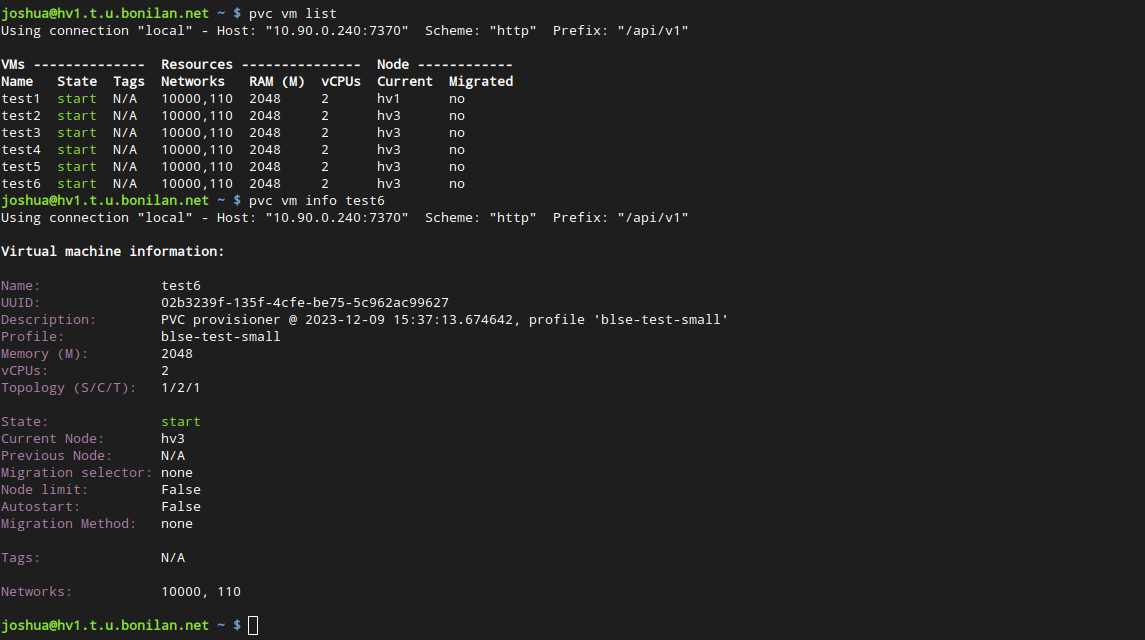
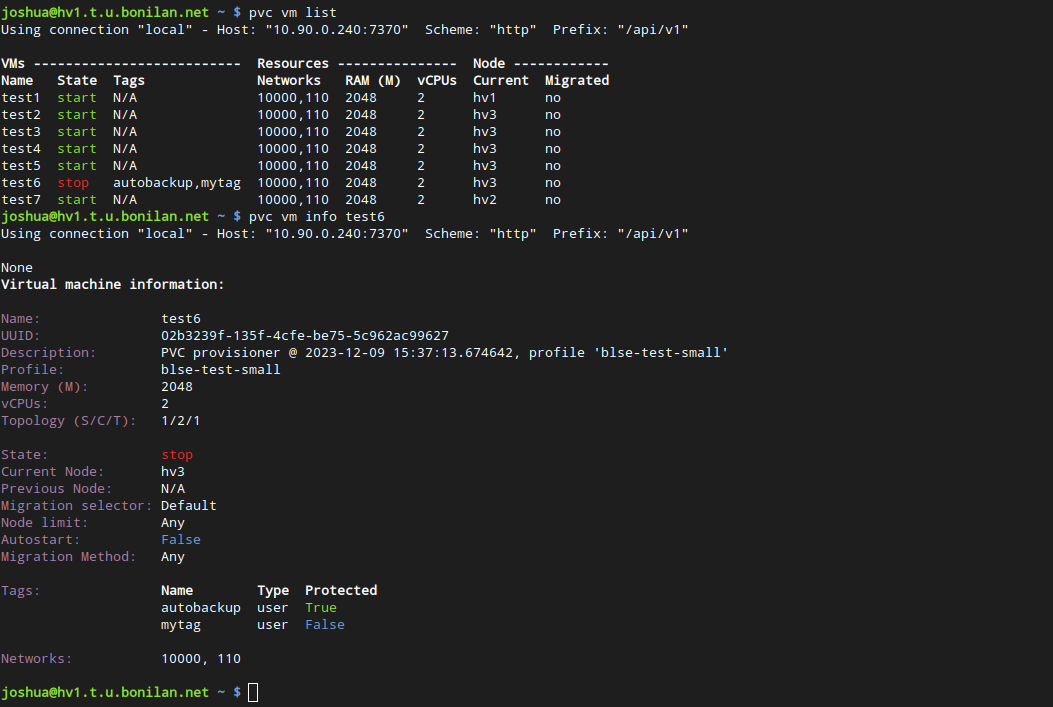
Fix output bugs in VM information

diff --git a/client-cli/pvc/lib/vm.py b/client-cli/pvc/lib/vm.py
@@ -1659,24 +1659,26 @@ def format_info(config, domain_information, long_output):
         )
 
     if not domain_information.get("node_selector"):
-        formatted_node_selector = "False"
+        formatted_node_selector = "Default"
     else:
-        formatted_node_selector = domain_information["node_selector"]
+        formatted_node_selector = str(domain_information["node_selector"]).title()
 
     if not domain_information.get("node_limit"):
-        formatted_node_limit = "False"
+        formatted_node_limit = "Any"
     else:
         formatted_node_limit = ", ".join(domain_information["node_limit"])
 
     if not domain_information.get("node_autostart"):
+        autostart_colour = ansiprint.blue()
         formatted_node_autostart = "False"
     else:
-        formatted_node_autostart = domain_information["node_autostart"]
+        autostart_colour = ansiprint.green()
+        formatted_node_autostart = "True"
 
     if not domain_information.get("migration_method"):
-        formatted_migration_method = "any"
+        formatted_migration_method = "Any"
     else:
-        formatted_migration_method = domain_information["migration_method"]
+        formatted_migration_method = str(domain_information["migration_method"]).title()
 
     ainformation.append(
         "{}Migration selector:{} {}".format(
@@ -1689,8 +1691,12 @@ def format_info(config, domain_information, long_output):
         )
     )
     ainformation.append(
-        "{}Autostart:{}          {}".format(
-            ansiprint.purple(), ansiprint.end(), formatted_node_autostart
+        "{}Autostart:{}          {}{}{}".format(
+            ansiprint.purple(),
+            ansiprint.end(),
+            autostart_colour,
+            formatted_node_autostart,
+            ansiprint.end(),
         )
     )
     ainformation.append(
@@ -1736,13 +1742,17 @@ def format_info(config, domain_information, long_output):
             domain_information["tags"], key=lambda t: t["type"] + t["name"]
         ):
             ainformation.append(
-                "                    {tags_name: <{tags_name_length}} {tags_type: <{tags_type_length}} {tags_protected: <{tags_protected_length}}".format(
+                "                    {tags_name: <{tags_name_length}} {tags_type: <{tags_type_length}} {tags_protected_colour}{tags_protected: <{tags_protected_length}}{end}".format(
                     tags_name_length=tags_name_length,
                     tags_type_length=tags_type_length,
                     tags_protected_length=tags_protected_length,
                     tags_name=tag["name"],
                     tags_type=tag["type"],
                     tags_protected=str(tag["protected"]),
+                    tags_protected_colour=ansiprint.green()
+                    if tag["protected"]
+                    else ansiprint.blue(),
+                    end=ansiprint.end(),
                 )
             )
     else:

diff --git a/daemon-common/common.py b/daemon-common/common.py
@@ -422,18 +422,33 @@ def getDomainMetadata(zkhandler, dom_uuid):
 
     The UUID must be validated before calling this function!
     """
-    domain_node_limit = zkhandler.read(("domain.meta.node_limit", dom_uuid))
-    domain_node_selector = zkhandler.read(("domain.meta.node_selector", dom_uuid))
-    domain_node_autostart = zkhandler.read(("domain.meta.autostart", dom_uuid))
-    domain_migration_method = zkhandler.read(("domain.meta.migrate_method", dom_uuid))
+    (
+        domain_node_limit,
+        domain_node_selector,
+        domain_node_autostart,
+        domain_migration_method,
+    ) = zkhandler.read_many(
+        [
+            ("domain.meta.node_limit", dom_uuid),
+            ("domain.meta.node_selector", dom_uuid),
+            ("domain.meta.autostart", dom_uuid),
+            ("domain.meta.migrate_method", dom_uuid),
+        ]
+    )
 
     if not domain_node_limit:
         domain_node_limit = None
     else:
         domain_node_limit = domain_node_limit.split(",")
 
+    if not domain_node_selector or domain_node_selector == "none":
+        domain_node_selector = None
+
     if not domain_node_autostart:
         domain_node_autostart = None
+
+    if not domain_migration_method or domain_migration_method == "none":
+        domain_migration_method = None
 
     return (
         domain_node_limit,
